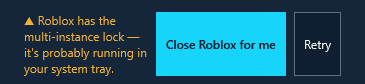
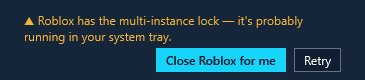
feat(feeds): at 380 px the Roblox line's buttons and toggle drop under the sentence
Este's ruling after the measurement (2026-11-26): in compact mode each notice
puts its buttons, and the "+N more" toggle, on a row under the sentence, which
then takes the whole width. The default width is unchanged.

Mechanism: the template Grid gains a second row. Each declared button binds its
own Grid.Row to the window's IsCompact through a new BoolToIntConverter
(CompactRowConverter, 0 or 1), so nothing restyles a button and no trigger sets
anything but Visibility. The sentence's own style spans all eight columns under
IsCompact and keeps a 4 DIP gap above the row only when the notice has an
action. The toggle moves into the template as the last slot of the top notice
(RobloxNoticeViewModel.ShowMoreToggle, set when something waits behind it), so
it shares the button row in compact and is still declared after the buttons:
the tab order stays text, its buttons, the toggle. The strip's own Grid keeps
only the Top and the inline More list.

Measured (LabelWrapMeasurementTests, 380 px, most lines of any sentence in the
group): status alone 3 -> 2 in de/es/fr/pl/pt-BR/ru, 2 in en; status with
"+N more" de 5, es 4, fr 4, pl 5, pt-BR 4, ru 4, en 3 -> 2 in all seven. Update
sentences stay at 2 or fewer. LineOver2At380 and its plumbing are deleted: every
status and update sentence now holds two lines in every culture at both widths,
nothing clipped. The strip is still exactly as tall with three notices true as
with one at both widths (44.00 default, 64.00 compact).
[…]

diff --git a/src/ROROROblox.App/MainWindow.xaml b/src/ROROROblox.App/MainWindow.xaml
@@ -28,13 +28,21 @@
              silently resolved to null. -->
         <app:BindingProxy x:Key="VmProxy" Data="{Binding}" />
 
+        <!-- Compact mode picks grid row 1 and the default width picks row 0 (the Roblox line's notice below). -->
+        <app:BoolToIntConverter x:Key="CompactRowConverter" TrueValue="1" FalseValue="0" />
+
         <!-- The Roblox line's one notice (v1.41, spec 7.3). Drawn for the top notice and for each item of the
              inline "more" list. The buttons are DECLARED, each with its fixed rank and a Visibility bound to
              a boolean on the notice: a rank cannot be switched by a trigger (ButtonRankFenceTests), which is
              why this is six slots and not a list of actions. They are direct children of the same Grid as the
              text, each in its own Auto column after it, so declaration order (reading and Tab order) is the
-             text first, then its buttons, and a hidden slot is zero wide (DismissOrderFenceTests wants the
-             Dismiss under a text sibling). Text is on the strip's RowBg: the warning accent for Warning,
+             text first, then its buttons, then the "+N more" toggle, and a hidden slot is zero wide
+             (DismissOrderFenceTests wants the Dismiss under a text sibling).
+             Compact wrap rule (Este, 2026-11-26): at the 380 px width the buttons and the toggle drop to a
+             row under the sentence, which then takes the whole width. Nothing restyles a button: each one
+             binds its own Grid.Row to the window's IsCompact through CompactRowConverter, and the sentence
+             spans every column and keeps a 4 DIP gap above the row only when the row has something in it.
+             Default width: one row, the buttons to the right of the text, as before. Text is on the strip's RowBg: the warning accent for Warning,
              White for Info. Both pairs are measured in all four themes (ContrastPairGateTests). The glyph is
              on every notice so tone is never the only signal, and flatline, which flattens the accent to
              grey, keeps the state through the glyph and the words. Commands live on the window's view model;
@@ -42,6 +50,10 @@
              reached through the Window like the roster's commands are. -->
         <DataTemplate x:Key="RobloxNoticeTemplate" DataType="{x:Type notices:RobloxNoticeViewModel}">
             <Grid>
+                <Grid.RowDefinitions>
+                    <RowDefinition Height="Auto" />
+                    <RowDefinition Height="Auto" />
+                </Grid.RowDefinitions>
                 <Grid.ColumnDefinitions>
                     <ColumnDefinition Width="*" />
                     <ColumnDefinition Width="Auto" />
@@ -50,8 +62,9 @@
                     <ColumnDefinition Width="Auto" />
                     <ColumnDefinition Width="Auto" />
                     <ColumnDefinition Width="Auto" />
+                    <ColumnDefinition Width="Auto" />
                 </Grid.ColumnDefinitions>
-                <TextBlock Grid.Column="0"
+                <TextBlock Grid.Row="0" Grid.Column="0"
                            FontSize="{DynamicResource BodyFontSize}"
                            TextWrapping="Wrap"
                            VerticalAlignment="Center"><Run Text="▲ " /><Run Text="{Binding Text, Mode=OneWay}" />
@@ -62,35 +75,50 @@
                                 <DataTrigger Binding="{Binding Tone}" Value="Warning">
                                     <Setter Property="Foreground" Value="{DynamicResource RowExpiredAccentBrush}" />
                                 </DataTrigger>
+                                <DataTrigger Binding="{Binding DataContext.IsCompact, RelativeSource={RelativeSource AncestorType=Window}}" Value="True">
+                                    <Setter Property="Grid.ColumnSpan" Value="8" />
+                                </DataTrigger>
+                                <MultiDataTrigger>
+                                    <MultiDataTrigger.Conditions>
+                                        <Condition Binding="{Binding DataContext.IsCompact, RelativeSource={RelativeSource AncestorType=Window}}" Value="True" />
+                                        <Condition Binding="{Binding HasActions}" Value="True" />
+                                    </MultiDataTrigger.Conditions>
+                                    <Setter Property="Margin" Value="0,0,0,4" />
+                                </MultiDataTrigger>
                             </Style.Triggers>
                         </Style>
                     </TextBlock.Style>
                 </TextBlock>
                 <Button Grid.Column="1"
+                        Grid.Row="{Binding DataContext.IsCompact, RelativeSource={RelativeSource AncestorType=Window}, Converter={StaticResource CompactRowConverter}}"
                         Style="{StaticResource CtaButtonStyle}"
                         Content="{loc:Loc MainWindow_CloseRobloxForMe}"
                         Command="{Binding DataContext.CloseRobloxForMeCommand, RelativeSource={RelativeSource AncestorType=Window}}"
                         Visibility="{Binding ShowContestedActions, Converter={StaticResource BoolToVisibilityConverter}}"
                         Padding="10,4" Margin="8,0,0,0" FontSize="{DynamicResource BodyFontSize}" />
                 <Button Grid.Column="2"
+                        Grid.Row="{Binding DataContext.IsCompact, RelativeSource={RelativeSource AncestorType=Window}, Converter={StaticResource CompactRowConverter}}"
                         Style="{StaticResource SecondaryButtonStyle}"
                         Content="{loc:Loc MainWindow_Retry}"
                         Command="{Binding DataContext.RetryMutexCommand, RelativeSource={RelativeSource AncestorType=Window}}"
                         Visibility="{Binding ShowContestedActions, Converter={StaticResource BoolToVisibilityConverter}}"
                         Padding="10,4" Margin="8,0,0,0" FontSize="{DynamicResource BodyFontSize}" />
                 <Button Grid.Column="3"
+                        Grid.Row="{Binding DataContext.IsCompact, RelativeSource={RelativeSource AncestorType=Window}, Converter={StaticResource CompactRowConverter}}"
                         Style="{StaticResource SecondaryButtonStyle}"
                         Content="{loc:Loc RobloxLine_StatusLink}"
                         Command="{Binding DataContext.OpenRobloxStatusCommand, RelativeSource={RelativeSource AncestorType=Window}}"
                         Visibility="{Binding ShowStatusLink, Converter={StaticResource BoolToVisibilityConverter}}"
                         Padding="10,4" Margin="8,0,0,0" FontSize="{DynamicResource BodyFontSize}" />
                 <Button Grid.Column="4"
+                        Grid.Row="{Binding DataContext.IsCompact, RelativeSource={RelativeSource AncestorType=Window}, Converter={StaticResource CompactRowConverter}}"
                         Style="{StaticResource SecondaryButtonStyle}"
                         Content="{loc:Loc MainWindow_SeeKnownIssues}"
                         Command="{Binding DataContext.OpenKnownIssuesCommand, RelativeSource={RelativeSource AncestorType=Window}}"
                         Visibility="{Binding ShowKnownIssueActions, Converter={StaticResource BoolToVisibilityConverter}}"
                         Padding="10,4" Margin="8,0,0,0" FontSize="{DynamicResource BodyFontSize}" />
                 <Button Grid.Column="5"
+                        Grid.Row="{Binding DataContext.IsCompact, RelativeSource={RelativeSource AncestorType=Window}, Converter={StaticResource CompactRowConverter}}"
                         Style="{StaticResource GhostButtonStyle}"
                         Content="{loc:Loc MainWindow_Dismiss}"
                         AutomationProperties.Name="{loc:Loc MainWindow_DismissKnownIssueNotice}"
@@ -98,11 +126,23 @@
                         Visibility="{Binding ShowKnownIssueActions, Converter={StaticResource BoolToVisibilityConverter}}"
                         Padding="10,4" Margin="4,0,0,0" FontSize="{DynamicResource BodyFontSize}" />
                 <Button Grid.Column="6"
+                        Grid.Row="{Binding DataContext.IsCompact, RelativeSource={RelativeSource AncestorType=Window}, Converter={StaticResource CompactRowConverter}}"
                         Style="{StaticResource SecondaryButtonStyle}"
                         Content="{loc:Loc RobloxLine_WhatChanged}"
                         Command="{Binding DataContext.OpenRobloxReleaseNotesCommand, RelativeSource={RelativeSource AncestorType=Window}}"
                         Visibility="{Binding ShowWhatChanged, Converter={StaticResource BoolToVisibilityConverter}}"
                         Padding="10,4" Margin="8,0,0,0" FontSize="{DynamicResource BodyFontSize}" />
+                <ToggleButton Grid.Column="7"
+                              Grid.Row="{Binding DataContext.IsCompact, RelativeSource={RelativeSource AncestorType=Window}, Converter={StaticResource CompactRowConverter}}"
+                              Style="{StaticResource PanelExpanderToggleButtonStyle}"
+                              Content="{Binding DataContext.RobloxLine.MoreLabel, RelativeSource={RelativeSource AncestorType=Window}}"
+                              AutomationProperties.Name="{Binding DataContext.RobloxLine.MoreSpokenName, RelativeSource={RelativeSource AncestorType=Window}}"
+                              IsChecked="{Binding DataContext.RobloxLine.IsExpanded, RelativeSource={RelativeSource AncestorType=Window}, Mode=TwoWay}"
+                              Visibility="{Binding ShowMoreToggle, Converter={StaticResource BoolToVisibilityConverter}}"
+                              Padding="10,4" Margin="8,0,0,0"
+                              VerticalAlignment="Center"
+                              FontSize="{DynamicResource BodyFontSize}"
+                              Cursor="Hand" />
             </Grid>
         </DataTemplate>
 
@@ -2198,8 +2238,9 @@
                      (Roblox holds the multi-instance lock after startup), Roblox's status, the known-issues
                      notice, the drift banner's text and the update notice. The resolver picks the one that is
                      drawn; the rest wait behind the "+N more" toggle, which opens them inline. Collapsed, the
-                     line is one notice tall whatever the count: the toggle sits in its own Auto column, so it
-                     takes width from the text and never adds a row. The toggle is a ToggleButton on the
+                     line is one notice tall whatever the count: the toggle is the last slot of the top notice's
+                     template, in its own Auto column, so it takes width from the text (default) or shares the
+                     button row under it (compact) and never adds a row. It is a ToggleButton on the
                      account panels' expander rank (ruled B1, 2026-11-26): IsChecked two-way, no Click, a bound
                      label and so an explicit spoken name. Nothing here is in a tooltip. Declaration order is
                      reading and Tab order: the top notice's text, its buttons, the toggle, then (open) each
@@ -2210,25 +2251,11 @@
                         <RowDefinition Height="Auto" />
                         <RowDefinition Height="Auto" />
                     </Grid.RowDefinitions>
-                    <Grid.ColumnDefinitions>
-                        <ColumnDefinition Width="*" />
-                        <ColumnDefinition Width="Auto" />
-                    </Grid.ColumnDefinitions>
-                    <ContentControl Grid.Row="0" Grid.Column="0"
+                    <ContentControl Grid.Row="0"
                                     Content="{Binding RobloxLine.Top}"
                                     ContentTemplate="{StaticResource RobloxNoticeTemplate}"
                                     IsTabStop="False" />
-                    <ToggleButton Grid.Row="0" Grid.Column="1"
-                                  Style="{StaticResource PanelExpanderToggleButtonStyle}"
-                                  Content="{Binding RobloxLine.MoreLabel}"
-                                  AutomationProperties.Name="{Binding RobloxLine.MoreSpokenName}"
-                                  IsChecked="{Binding RobloxLine.IsExpanded, Mode=TwoWay}"
-                                  Visibility="{Binding RobloxLine.MoreLabel, Converter={StaticResource StringToVisibilityConverter}}"
-                                  Padding="10,4" Margin="8,0,0,0"
-                                  VerticalAlignment="Center"
-                                  FontSize="{DynamicResource BodyFontSize}"
-                                  Cursor="Hand" />
-                    <ItemsControl Grid.Row="1" Grid.Column="0" Grid.ColumnSpan="2"
+                    <ItemsControl Grid.Row="1"
                                   ItemsSource="{Binding RobloxLine.More}"
                                   ItemTemplate="{StaticResource RobloxNoticeTemplate}"
                                   IsTabStop="False"

diff --git a/src/ROROROblox.Tests/Rendering/LabelWrapMeasurementTests.cs b/src/ROROROblox.Tests/Rendering/LabelWrapMeasurementTests.cs
@@ -796,42 +796,17 @@ public class LabelWrapMeasurementTests
         yield return ("update-rollback", new RobloxLineRenderTests.LineScene { Update = new RobloxUpdateState(RobloxUpdateKind.Pending, RobloxUpdateDirection.Older) });
     }
 
-    /// <summary>
-    /// MEASURED 2026-11-26, and not met: at 380 px a status sentence wraps past two lines in every language. The strip's
-    /// row is the sentence, its action and the "+N more" toggle, each beside the next (ruled as drawn, 2026-11-26: no
-    /// compact wrap rule), and the 365 DIP the window leaves at 380 px gives the text about 220 DIP alone and about
-    /// 140 DIP with the toggle. English already needs three lines with the toggle, and Polish and German five.
-    /// Keyed "culture/group", the value is the most lines any sentence of the group needs; a group not listed holds
-    /// the two-line bound. A ratchet, like <see cref="KnownOpen"/>: the test
-    /// fails when a number rises, and when one stops reproducing so the entry has to be deleted with the fix. The
-    /// default width and both update sentences are held to two lines with no exemption.
-    /// </summary>
-    private static readonly Dictionary<string, int> LineOver2At380 = new()
-    {
-        ["de/status-alone"] = 3,
-        ["de/status-with-more"] = 5,
-        ["en/status-with-more"] = 3,
-        ["es/status-alone"] = 3,
-        ["es/status-with-more"] = 4,
-        ["fr/status-alone"] = 3,
-        ["fr/status-with-more"] = 4,
-        ["pl/status-alone"] = 3,
-        ["pl/status-with-more"] = 5,
-        ["pt-BR/status-alone"] = 3,
-        ["pt-BR/status-with-more"] = 4,
-        ["ru/status-alone"] = 3,
-        ["ru/status-with-more"] = 4,
-    };
-
-    private static string LineGroup(string name, bool compact) =>
+    private static string LineGroup(string name) =>
         name.StartsWith("update", StringComparison.Ordinal) ? "update"
         : name.EndsWith("-with-more", StringComparison.Ordinal) ? "status-with-more"
         : "status-alone";
 
     /// <summary>
     /// Every Roblox status sentence (every level, with the longest row name and the counted suffix) and both update
-    /// sentences, at the default width and at 380 px in seven languages, with nothing clipped. The contested,
-    /// known-issue and drift texts are v1.40's strings and are not drawn here (spec 7.6). See <see cref="LineOver2At380"/>.
+    /// sentences, at the default width and at 380 px in seven languages, at most two lines and nothing clipped. At
+    /// 380 px the buttons and the "+N more" toggle sit on a row under the sentence (Este, 2026-11-26), so the sentence
+    /// has the whole width; before that rule the status sentences needed up to five lines (German, Polish) and were
+    /// ratcheted. The contested, known-issue and drift texts are v1.40's strings and are not drawn here (spec 7.6).
     /// </summary>
     [WindowRenderFact]
     public void TheRobloxLine_StatusAndUpdateSentences_MaxAtTwoLines_AtBothWidths_InEverySupportedLanguage()
@@ -863,15 +838,11 @@ public class LabelWrapMeasurementTests
                         offenders.AddRange(result.Clips.Select(c => c.Line));
                         Assert.True(result.Wrapping >= 1, $"[{surface}/{culture}] the walk saw no wrapping text: the notice is not being measured");
 
-                        var group = LineGroup(name, compact);
-                        if (compact && group != "update")
+                        offenders.AddRange(result.Offenders);
+                        if (compact)
                         {
-                            var key = $"{culture}/{group}";
+                            var key = $"{culture}/{LineGroup(name)}";
                             measured[key] = Math.Max(measured.GetValueOrDefault(key), result.MaxWrapLines);
-                        }
-                        else
-                        {
-                            offenders.AddRange(result.Offenders);
                         }
                     }
                 }
@@ -883,26 +854,10 @@ public class LabelWrapMeasurementTests
         }
 
         _output.WriteLine(report.ToString());
-        _output.WriteLine("---- most lines at 380 px, by culture/group (ratcheted in LineOver2At380) ----");
+        _output.WriteLine("---- most lines at 380 px, by culture/group ----");
         foreach (var (key, lines) in measured) _output.WriteLine($"{key} = {lines}");
 
         Assert.Equal(Cultures.Length * 2 * LineScenes().Count(), states);
-        foreach (var (key, lines) in measured)
-        {
-            if (lines > MaxLines && !LineOver2At380.ContainsKey(key))
-            {
-                offenders.Add($"[roblox-line/380/{key}] {lines} lines, over {MaxLines} and not listed in LineOver2At380");
-            }
-            else if (LineOver2At380.TryGetValue(key, out var recorded) && lines != recorded)
-            {
-                offenders.Add($"[roblox-line/380/{key}] {lines} lines, but LineOver2At380 records {recorded}: {(lines > recorded ? "it got worse" : "it improved, so lower or delete the entry")}");
-            }
-        }
-
-        foreach (var key in LineOver2At380.Keys.Where(k => !measured.ContainsKey(k)))
-        {
-            offenders.Add($"LineOver2At380 lists {key}, which was not measured");
-        }
 
         Assert.True(offenders.Count == 0, $"{offenders.Count} Roblox line problem(s):\n" + string.Join("\n", offenders));
     }

diff --git a/src/ROROROblox.Tests/Rendering/RobloxLineRenderTests.cs b/src/ROROROblox.Tests/Rendering/RobloxLineRenderTests.cs
@@ -450,6 +450,45 @@ public class RobloxLineRenderTests
     }
 
     [WindowRenderFact]
+    public void TheCompactWrapRule_PutsTheButtonsAndTheToggleUnderTheSentence_AndOnlyAt380px()
+    {
+        // Este, 2026-11-26. The default width keeps the buttons to the right of the sentence (one row, tops aligned
+        // to the same band); compact drops them, and the toggle with them, onto a row below it. Tab order is the
+        // declaration order and is the same either way: the text, its buttons, the toggle.
+        var brand = MainWindowOneAccountFitsTests.BuiltIn("brand");
+        foreach (var compact in new[] { false, true })
+        {
+            var read = ThemedWindowRender.Inspect(
+                brand,
+                $"Roblox line compact wrap rule, compact={compact}",
+                () => BuildScene(ThreeTrue, compact),
+                content =>
+                {
+                    var strip = Strip(content);
+                    var text = Visible<TextBlock>(strip).Single(IsNoticeText);
+                    var textRect = new Rect(text.TranslatePoint(new Point(0, 0), strip), new Size(text.ActualWidth, text.ActualHeight));
+                    var below = Visible<ButtonBase>(strip)
+                        .Select(b => (Label: b is ToggleButton ? "toggle" : ButtonLabel(b), Top: b.TranslatePoint(new Point(0, 0), strip).Y))
+                        .ToList();
+                    return (textRect, below);
+                });
+
+            Assert.Equal(["button:" + Loc.Get("RobloxLine_StatusLink"), "toggle"], read.below.Select(b => b.Label is "toggle" ? "toggle" : "button:" + b.Label));
+            foreach (var (label, top) in read.below)
+            {
+                if (compact)
+                {
+                    Assert.True(top >= read.textRect.Bottom - 0.5, $"compact: '{label}' starts at {top:F1}, inside the sentence (bottom {read.textRect.Bottom:F1})");
+                }
+                else
+                {
+                    Assert.True(top < read.textRect.Bottom, $"default width: '{label}' starts at {top:F1}, under the sentence (bottom {read.textRect.Bottom:F1})");
+                }
+            }
+        }
+    }
+
+    [WindowRenderFact]
     public void UnderFlatline_EveryState_CarriesTheGlyph_AndDifferentWords()
     {
         var flatline = MainWindowOneAccountFitsTests.BuiltIn("flatline");

diff --git a/src/ROROROblox.App/Notices/RobloxLineViewModel.cs b/src/ROROROblox.App/Notices/RobloxLineViewModel.cs
@@ -4,13 +4,15 @@ using ROROROblox.App.Localization;
 namespace ROROROblox.App.Notices;
 
 /// <summary>
-/// One notice as the window's template reads it: its words, its tone and four booleans that pick which
+/// One notice as the window's template reads it: its words, its tone and the booleans that pick which
 /// declared buttons show. Buttons are declared in the template with fixed ranks, so the notice only says
-/// which of them belong to it.
+/// which of them belong to it. The top notice also carries the "+N more" toggle, one more declared slot in the
+/// same template: that is what lets the toggle follow the notice's buttons onto the row under the sentence in
+/// compact mode.
 /// </summary>
 public sealed class RobloxNoticeViewModel
 {
-    internal RobloxNoticeViewModel(RobloxNotice notice)
+    internal RobloxNoticeViewModel(RobloxNotice notice, bool showMoreToggle = false)
     {
         Text = notice.Text;
         Tone = notice.Tone;
@@ -18,6 +20,7 @@ public sealed class RobloxNoticeViewModel
         ShowKnownIssueActions = notice.Kind == RobloxNoticeKind.KnownIssue;
         ShowStatusLink = notice.Kind == RobloxNoticeKind.Outage && notice.WithLink;
         ShowWhatChanged = notice.Kind == RobloxNoticeKind.Update && notice.WithLink;
+        ShowMoreToggle = showMoreToggle;
     }
 
     public string Text { get; }
@@ -31,6 +34,12 @@ public sealed class RobloxNoticeViewModel
     public bool ShowStatusLink { get; }
 
     public bool ShowWhatChanged { get; }
+
+    /// <summary>The "+N more" toggle belongs to this notice: it is the top one and something waits behind it.</summary>
+    public bool ShowMoreToggle { get; }
+
+    /// <summary>Something is drawn beside or, in compact mode, under the sentence.</summary>
+    public bool HasActions => ShowContestedActions || ShowKnownIssueActions || ShowStatusLink || ShowWhatChanged || ShowMoreToggle;
 }
 
 /// <summary>
@@ -76,7 +85,7 @@ public sealed class RobloxLineViewModel : INotifyPropertyChanged
     {
         ArgumentNullException.ThrowIfNull(state);
 
-        Top = state.Top is null ? null : new RobloxNoticeViewModel(state.Top);
+        Top = state.Top is null ? null : new RobloxNoticeViewModel(state.Top, showMoreToggle: state.More.Count > 0);
         More = state.More.Select(n => new RobloxNoticeViewModel(n)).ToList();
         if (More.Count == 0)
         {

diff --git a/src/ROROROblox.App/Converters.cs b/src/ROROROblox.App/Converters.cs
@@ -22,6 +22,27 @@ internal sealed class BoolToVisibilityConverter : IValueConverter
     }
 }
 
+/// <summary>
+/// A bool picks one of two integers, for a Grid row or span that has to follow a flag (compact mode) without a
+/// trigger on the element: a button's style does not move buttons.
+/// </summary>
+internal sealed class BoolToIntConverter : IValueConverter
+{
+    public int TrueValue { get; set; } = 1;
+
+    public int FalseValue { get; set; }
+
+    public object Convert(object? value, Type targetType, object? parameter, CultureInfo culture)
+    {
+        return value is true ? TrueValue : FalseValue;
+    }
+
+    public object ConvertBack(object? value, Type targetType, object? parameter, CultureInfo culture)
+    {
+        throw new NotSupportedException();
+    }
+}
+
 internal sealed class InverseBoolConverter : IValueConverter
 {
     public object Convert(object? value, Type targetType, object? parameter, CultureInfo culture)
